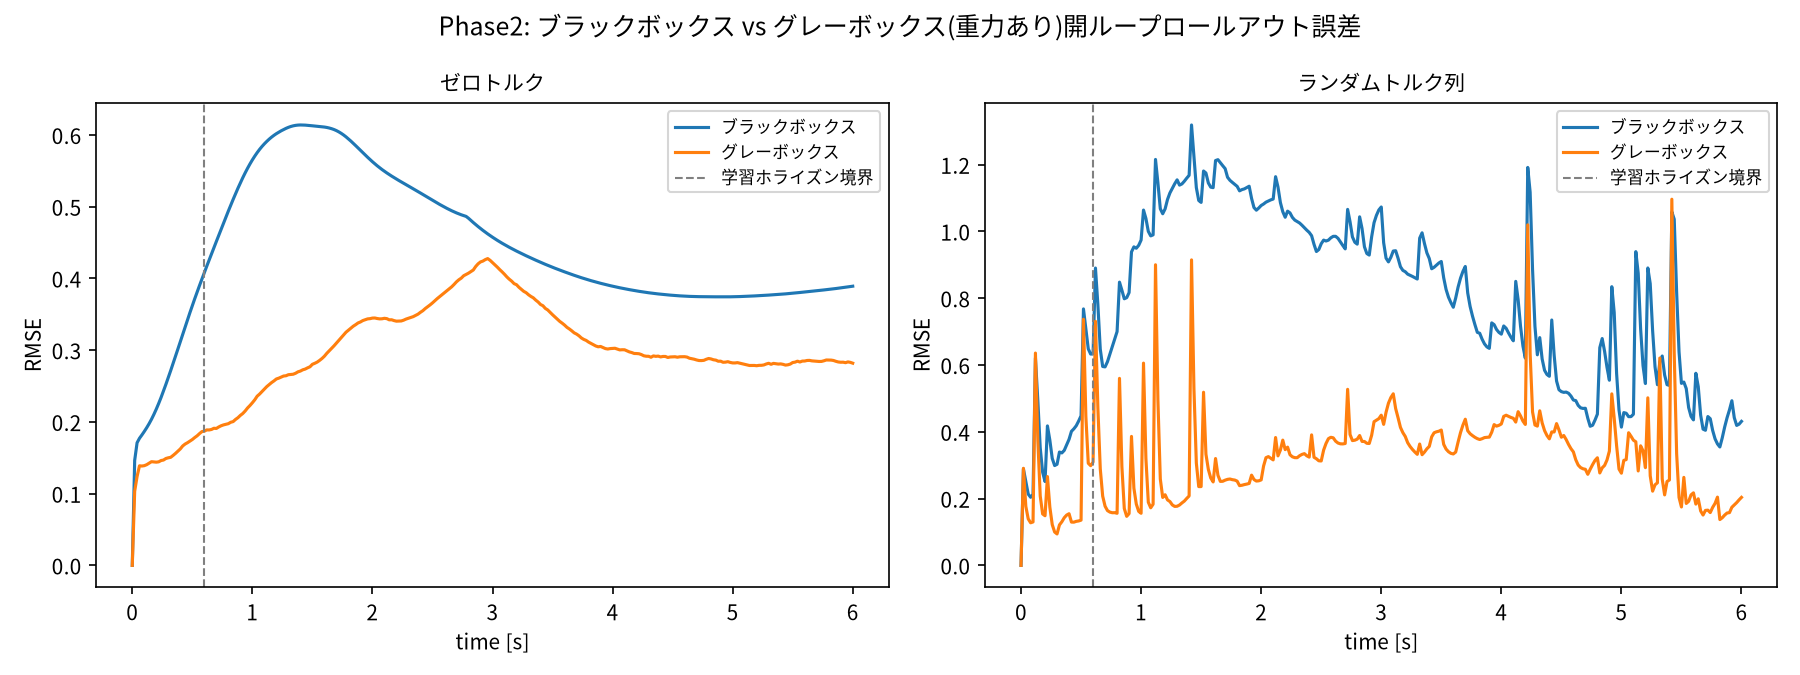
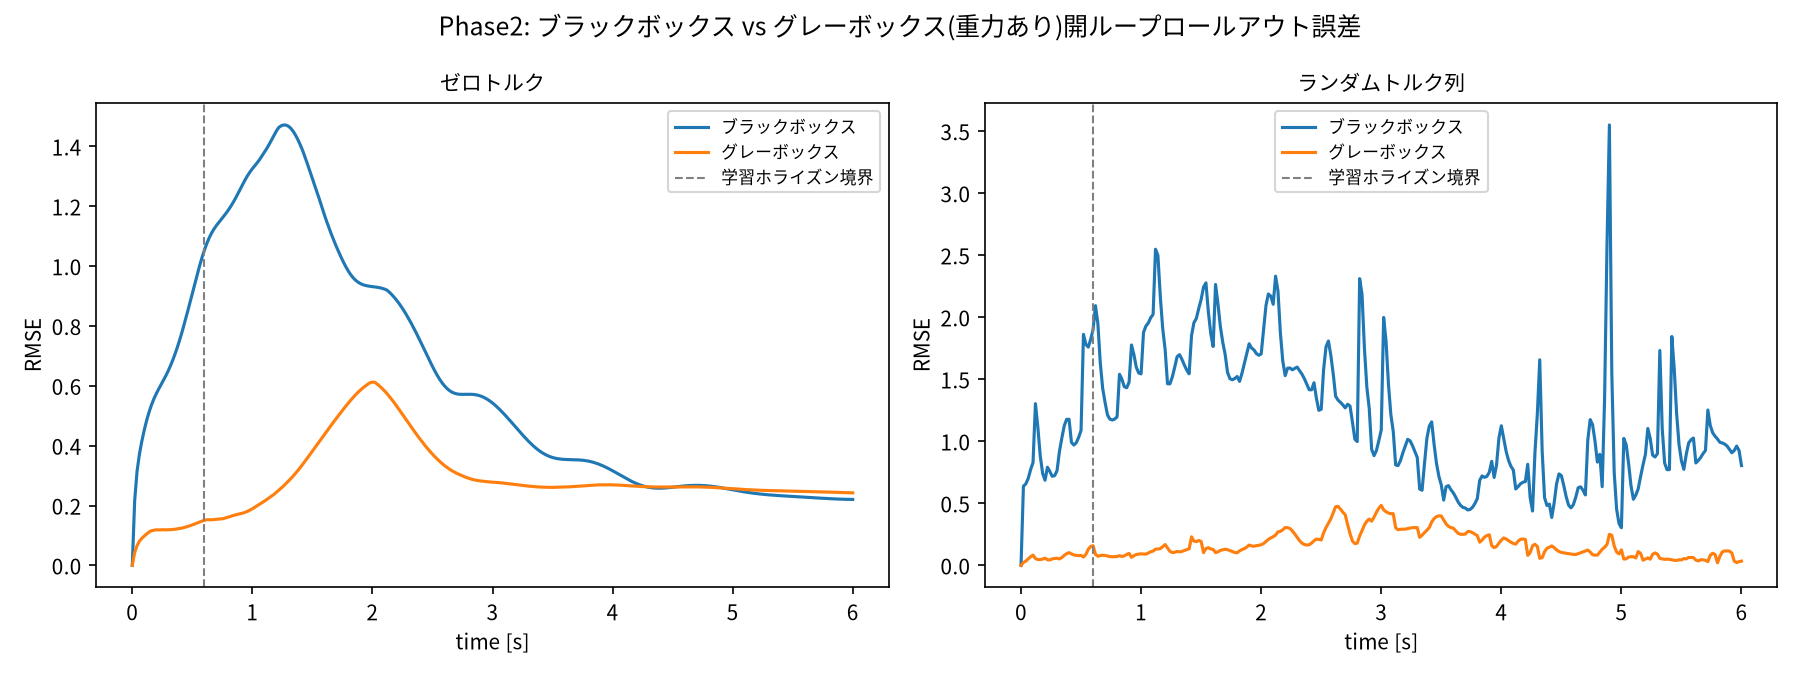
Phase2-M8: 損失正規化+摩擦の構造化でPTP成功数12/12を達成 (#37)
* Phase2-M8: 損失正規化+摩擦の構造化でPTP成功数12/12を達成

文献調査(Neural Robot Dynamics, DeLaN系のトルク分離手法)を踏まえ、
2つの変更を組み合わせた:

1. 学習損失をencode_stateの各成分の標準偏差で正規化する
   (角速度成分の分散が角度成分の約28倍あり、素のMSEでは損失のほとんどが
   角速度誤差に占められ、PTP制御で重要な角度精度への実効的な重みが
   小さすぎた)
2. 摩擦の残差ネット(自由なMLP)を廃し、StructuredFrictionGrayBoxModelVertical
   として摩擦の関数形(粘性+クーロン, tanh近似)自体をハードコードし、
   係数(関節ごと2個、計4個)のみを学習パラメータにする
   (M4で判明した「線形ゲインを学習しきれない」問題を構造的に解消)

結果:
- 学習が全カリキュラム段階で滑らかに収束(スパイクなし)
- 学習された粘性係数: 0.96-0.97 (真値1.0とほぼ一致)
- PTP成功数: 5/12(M5)→12/12(真値・ブラックボックスと並ぶ)
- 代表ICの持続振動(M4以降の懸案)が完全に解消
- ロールアウトRMSE(ランダムトルク列): 0.80→0.034(23倍改善)

Phase2-M6(容量・データ量の単純増強)・M7(加速度残差)はいずれも逆効果
だったが、それらの経験(勾配・スケールの問題)と文献の知見を組み合わせる
ことで根本解決に至った。

Claude-Session: https://claude.ai/code/session_01Rvrf6mcbh1UrexApn66z2b

* Issue番号の参照ミスを修正(#37→#36)

Claude-Session: https://claude.ai/code/session_01Rvrf6mcbh1UrexApn66z2b

---------

diff --git a/src/model_vertical.py b/src/model_vertical.py
@@ -72,3 +72,54 @@ class GrayBoxModelVertical(AutoregressiveModel):
         k3 = self.dynamics(state + 0.5 * dt * k2, u)
         k4 = self.dynamics(state + dt * k3, u)
         return state + (dt / 6.0) * (k1 + 2 * k2 + 2 * k3 + k4)
+
+
+class StructuredFrictionGrayBoxModelVertical(AutoregressiveModel):
+    """グレーボックス版(垂直面, 摩擦を構造化): M(q), C(q,q_dot), G(q)に加え、
+    摩擦の関数形(粘性+クーロン、Stribeck風の滑らかな近似)自体もハードコード
+    し、NNは使わず係数(粘性・クーロンとも関節ごと1個ずつ、計4個)だけを
+    学習パラメータにする。
+
+    Phase2-M4/M8 (#29, #36) で、自由なMLPの残差ネットが摩擦の線形ゲイン
+    (viscous係数)を学習しきれず持続振動が生じることが判明したため、
+    関数形自体を既知として埋め込み、未知の大きさ(係数)だけを推定する
+    設計にする(DeLaN等のトルク分離手法と同じ考え方)。
+    """
+
+    def __init__(self, dt: float = DT, g: float = GRAVITY, v_stribeck: float = 0.03):
+        super().__init__()
+        self.log_c_viscous = torch.nn.Parameter(torch.zeros(2))
+        self.log_c_coulomb = torch.nn.Parameter(torch.zeros(2))
+        self.dt = dt
+        self.g = g
+        self.v_stribeck = v_stribeck
+
+    def residual_torque(self, state: torch.Tensor, u: torch.Tensor) -> torch.Tensor:
+        q_dot = state[..., 2:]
+        c_viscous = torch.exp(self.log_c_viscous)
+        c_coulomb = torch.exp(self.log_c_coulomb)
+        return c_viscous * q_dot + c_coulomb * torch.tanh(q_dot / self.v_stribeck)
+
+    def dynamics(self, state: torch.Tensor, u: torch.Tensor) -> torch.Tensor:
+        q, q_dot = state[..., :2], state[..., 2:]
+        q1, q2 = q[..., 0], q[..., 1]
+        q1_dot, q2_dot = q_dot[..., 0], q_dot[..., 1]
+
+        M = mass_matrix_torch(q2)
+        C = coriolis_matrix_torch(q2, q1_dot, q2_dot)
+        Cq_dot = torch.einsum("...ij,...j->...i", C, q_dot)
+        G = gravity_vector_torch(q1, q2, self.g)
+        residual = self.residual_torque(state, u)
+
+        rhs = (u - Cq_dot - G - residual).unsqueeze(-1)
+        q_ddot = torch.linalg.solve(M, rhs).squeeze(-1)
+        return torch.cat([q_dot, q_ddot], dim=-1)
+
+    def step(self, state: torch.Tensor, u: torch.Tensor | None = None) -> torch.Tensor:
+        u = self._default_u(state, u)
+        dt = self.dt
+        k1 = self.dynamics(state, u)
+        k2 = self.dynamics(state + 0.5 * dt * k1, u)
+        k3 = self.dynamics(state + 0.5 * dt * k2, u)
+        k4 = self.dynamics(state + dt * k3, u)
+        return state + (dt / 6.0) * (k1 + 2 * k2 + 2 * k3 + k4)

diff --git a/tests/test_model_vertical.py b/tests/test_model_vertical.py
@@ -1,8 +1,8 @@
 import numpy as np
 import torch
 
-from src.model_vertical import GrayBoxModelVertical, gravity_vector_torch
-from src.physics_vertical import gravity_vector, rk4_step
+from src.model_vertical import GrayBoxModelVertical, StructuredFrictionGrayBoxModelVertical, gravity_vector_torch
+from src.physics_vertical import friction_torque, gravity_vector, rk4_step
 
 
 def test_gravity_vector_matches_numpy():
@@ -47,5 +47,29 @@ def test_zero_residual_matches_known_physics_without_friction():
 
 def test_graybox_vertical_rollout_output_shape():
     model = GrayBoxModelVertical()
+    traj = model.rollout(np.array([0.1, 0.2, 0.0, 0.0]), n_steps=10)
+    assert traj.shape == (11, 4)
+
+
+def test_structured_friction_matches_true_friction_when_coefficients_match():
+    """Phase2-M8 (#37): 係数がtrue値と一致すれば、構造化残差は真の摩擦トルクと一致すること。"""
+    model = StructuredFrictionGrayBoxModelVertical()
+    with torch.no_grad():
+        model.log_c_viscous.copy_(torch.log(torch.tensor([1.0, 1.0])))
+        model.log_c_coulomb.copy_(torch.log(torch.tensor([0.02, 0.02])))
+
+    q_dot_np = np.array([0.5, -1.2])
+    state = torch.tensor([0.3, -0.5, *q_dot_np], dtype=torch.float32)
+    u = torch.zeros(2)
+
+    with torch.no_grad():
+        predicted = model.residual_torque(state, u).numpy()
+    expected = friction_torque(q_dot_np, c_viscous=np.array([1.0, 1.0]), c_coulomb=np.array([0.02, 0.02]))
+
+    assert np.allclose(predicted, expected, atol=1e-5)
+
+
+def test_structured_friction_rollout_output_shape():
+    model = StructuredFrictionGrayBoxModelVertical()
     traj = model.rollout(np.array([0.1, 0.2, 0.0, 0.0]), n_steps=10)
     assert traj.shape == (11, 4)

diff --git a/src/evaluate_graybox_vertical.py b/src/evaluate_graybox_vertical.py
@@ -2,8 +2,8 @@
 開ループロールアウト誤差を比較する(Phase 1のM2, evaluate_graybox.py相当)。
 
 ブラックボックスはシステムに依存しない`src.model.NSSModel`をそのまま再利用し、
-グレーボックスは重力項G(q)をハードコードした`src.model_vertical.GrayBoxModelVertical`
-を用いる。
+グレーボックスは重力項G(q)・摩擦の関数形をハードコードした
+`src.model_vertical.StructuredFrictionGrayBoxModelVertical`を用いる(Phase2-M8, #36)。
 """
 import matplotlib
 
@@ -17,7 +17,7 @@ plt.rcParams["font.family"] = "Noto Sans CJK JP"
 from src.dataset import sample_initial_states
 from src.dataset_vertical import TAU_RANGE, generate_controlled_trajectories
 from src.model import AutoregressiveModel, NSSModel
-from src.model_vertical import GrayBoxModelVertical
+from src.model_vertical import StructuredFrictionGrayBoxModelVertical
 from src.physics_vertical import simulate as simulate_vertical
 from src.rollout import rmse_curve, true_rollout
 from src.train_vertical import CURRICULUM, DT, SEED, train
@@ -83,7 +83,7 @@ if __name__ == "__main__":
 
     torch.manual_seed(SEED)
     np.random.seed(SEED)
-    graybox = train(curriculum=CURRICULUM, model_cls=GrayBoxModelVertical)
+    graybox = train(curriculum=CURRICULUM, model_cls=StructuredFrictionGrayBoxModelVertical)
 
     blackbox_curves = rmse_at_horizon(blackbox, conditions)
     graybox_curves = rmse_at_horizon(graybox, conditions)

diff --git a/src/train_vertical.py b/src/train_vertical.py
@@ -51,9 +51,19 @@ def train(
     u_val_t = torch.as_tensor(u_val, dtype=torch.float32, device=device)
     target_enc_val = encode_state(torch.as_tensor(targets_val, dtype=torch.float32, device=device))
 
+    # Phase2-M8 (#36): encode_stateの角速度成分(qd1,qd2)は角度成分
+    # (sin/cos)より分散が桁違いに大きい(Phase2で約28倍、Phase1で約10倍)ため、
+    # 素のMSEでは損失のほとんどが角速度誤差に占められ、PTP制御で重要な角度
+    # 精度への実効的な重みが小さくなっていた。学習データの標準偏差で各
+    # チャンネルを正規化してから二乗誤差を取ることで、全成分が均等に
+    # 損失へ寄与するようにする。
+    channel_std = target_enc_train.std(dim=(0, 1), keepdim=True).clamp_min(1e-3)
+
+    def loss_fn(pred: torch.Tensor, target: torch.Tensor) -> torch.Tensor:
+        return (((pred - target) / channel_std) ** 2).mean()
+
     model = model_cls().to(device)
     optimizer = torch.optim.Adam(model.parameters(), lr=LR)
-    loss_fn = nn.MSELoss()
 
     n_samples = x0_train_t.shape[0]
     global_epoch = 0

diff --git a/src/diagnose_oscillation_vertical.py b/src/diagnose_oscillation_vertical.py
@@ -17,7 +17,7 @@ plt.rcParams["font.family"] = "Noto Sans CJK JP"
 
 from src.control_vertical import PTPControllerVertical
 from src.evaluate_ptp_vertical import TARGET
-from src.model_vertical import GrayBoxModelVertical
+from src.model_vertical import StructuredFrictionGrayBoxModelVertical
 from src.physics_vertical import friction_torque
 from src.train_vertical import CURRICULUM, DT, SEED, train
 
@@ -43,7 +43,7 @@ def run_graybox_closed_loop(graybox, initial_state, target, n_steps, dt):
 def main() -> None:
     torch.manual_seed(SEED)
     np.random.seed(SEED)
-    graybox = train(curriculum=CURRICULUM, model_cls=GrayBoxModelVertical)
+    graybox = train(curriculum=CURRICULUM, model_cls=StructuredFrictionGrayBoxModelVertical)
 
     states, taus = run_graybox_closed_loop(graybox, IC, TARGET, N_STEPS, DT)
     q_dot = states[:-1, 2:]

diff --git a/src/evaluate_ptp_vertical.py b/src/evaluate_ptp_vertical.py
@@ -14,7 +14,7 @@ plt.rcParams["font.family"] = "Noto Sans CJK JP"
 from src.control import angular_error
 from src.control_vertical import PTPControllerVertical, run_ptp_surrogate, run_ptp_true
 from src.model import AutoregressiveModel, NSSModel
-from src.model_vertical import GrayBoxModelVertical
+from src.model_vertical import StructuredFrictionGrayBoxModelVertical
 from src.train_vertical import CURRICULUM, DT, SEED, train
 
 TARGET = np.array([0.5, -0.5])
@@ -106,7 +106,7 @@ if __name__ == "__main__":
 
     torch.manual_seed(SEED)
     np.random.seed(SEED)
-    graybox = train(curriculum=CURRICULUM, model_cls=GrayBoxModelVertical)
+    graybox = train(curriculum=CURRICULUM, model_cls=StructuredFrictionGrayBoxModelVertical)
 
     results = evaluate_all(blackbox, graybox)
     plot_representative_trajectory(blackbox, graybox)

diff --git a/README.md b/README.md
@@ -182,6 +182,22 @@ pip install -r requirements.txt
   M5の5/12から**0/12に悪化**した。カオス的な系では単純な容量・データ量の
   増加がかえって多段ロールアウト損失の学習を不安定化させることが判明。
   設定はM5の値(既定容量・データ量)に戻し、この方向性は打ち切った。
+- **Phase2-M7** (打ち切り, #35): 残差ネットの出力をトルクから加速度に変更
+  (M(q)^-1による勾配増幅の回避を狙う)を試したが、同一学習予算では収束
+  自体が悪化し(k=30 train_loss: 0.004→1.3)、PTP成功数も5/12→0/12に
+  悪化。マージせず知見のみ記録。
+- **Phase2-M8** (完了, #36): 文献調査([Neural Robot Dynamics](https://arxiv.org/html/2508.15755v1)、
+  DeLaN系のトルク分離手法等)を踏まえ、2つの変更を組み合わせた:
+  (1) 学習損失をencode_stateの各成分の標準偏差で正規化(角速度成分の分散が
+  角度成分の約28倍あり、素のMSEでは角度精度への実効的な重みが小さすぎた)、
+  (2) 摩擦の残差ネット(自由なMLP)を廃し、`StructuredFrictionGrayBoxModelVertical`
+  として摩擦の関数形(粘性+クーロン)自体をハードコードして係数のみ学習する
+  設計に変更(M4で判明した「線形ゲインを学習しきれない」問題を構造的に解消)。
+  結果、学習が全カリキュラム段階で滑らかに収束し(スパイクなし)、学習された
+  粘性係数は真値(1.0)に対し0.96〜0.97とほぼ正確に一致。**PTP成功数は
+  12/12を達成**し、代表ICの持続振動も完全に解消した。ロールアウトRMSEも
+  ランダムトルク条件で23倍改善(0.80→0.034)。Phase 2でもグレーボックス化が
+  実用レベルの制御精度に到達することを示せた。
 
 ## ディレクトリ構成
 
